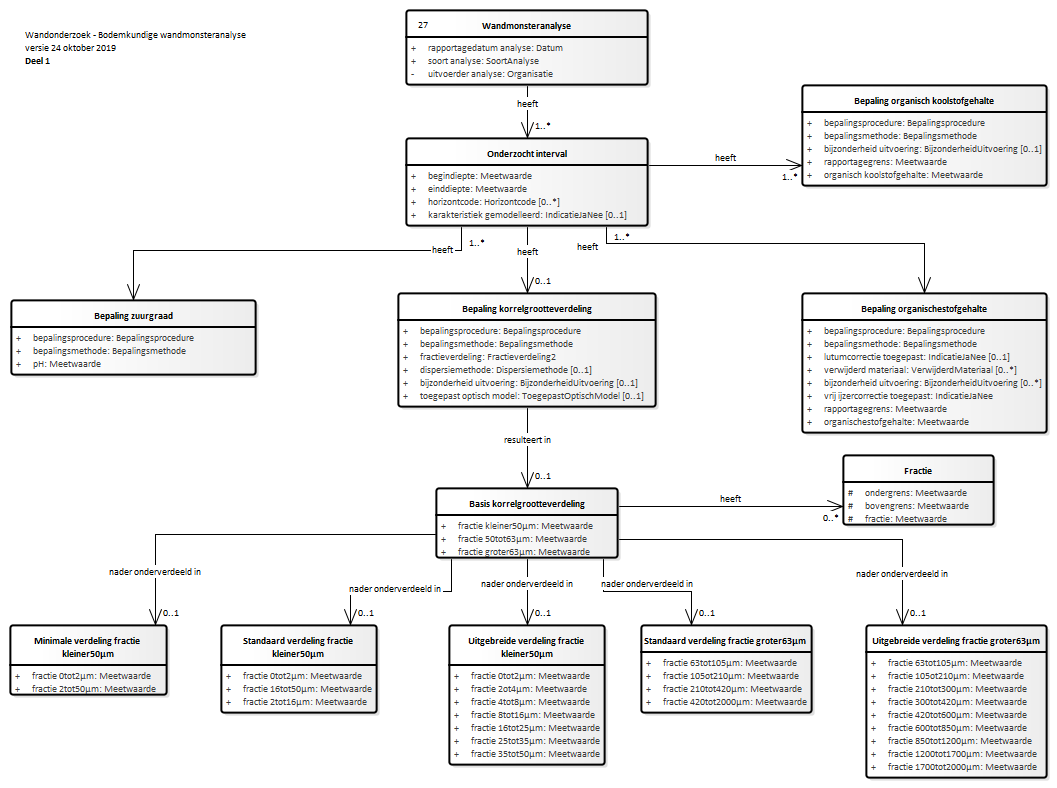
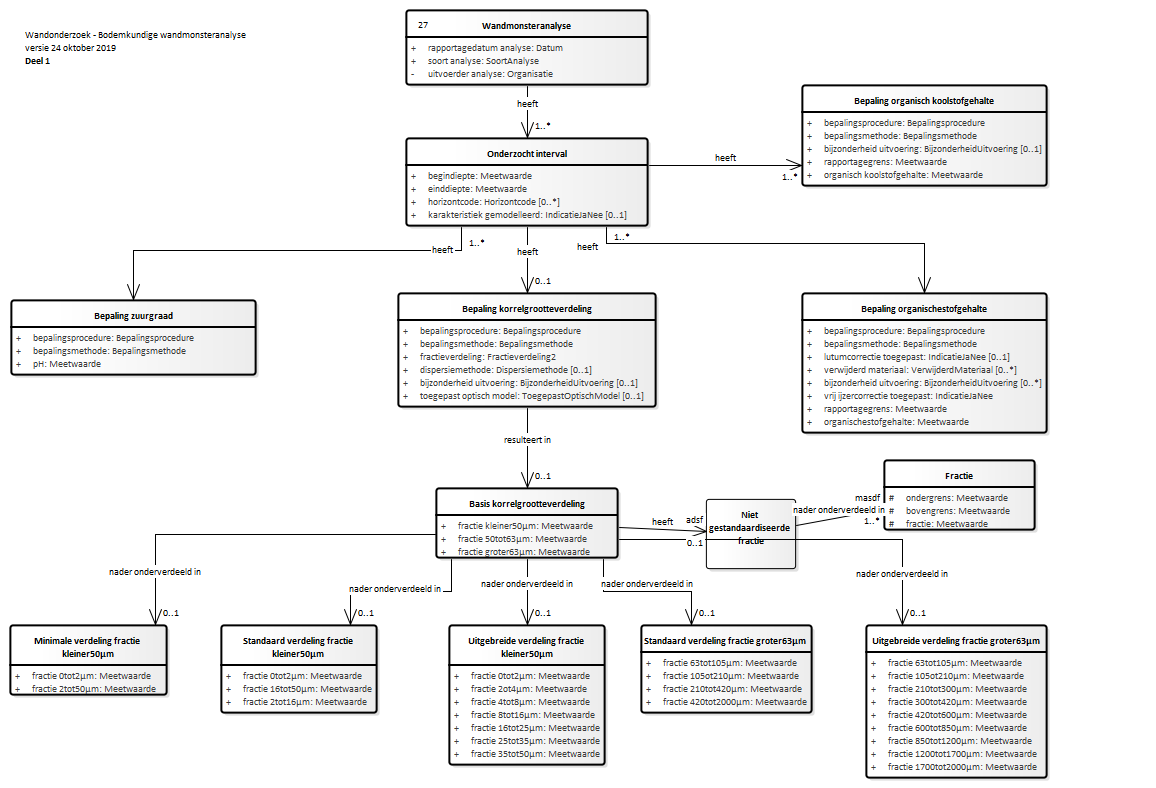
Conceptualmodel-BodemkundigwandonderzoekSFR-0.99versie16oktober2019-3-20191025-20191027-112651

diff --git a/data/SFR-cat.msword.html b/data/SFR-cat.msword.html
@@ -13,7 +13,7 @@
    <body>
       <p>Conceptual model/Bodemkundig wandonderzoek (SFR)/20191025</p>
       <p>Imvertor: 1.55.2</p>
-      <p>Model release: Conceptualmodel-BodemkundigwandonderzoekSFR-0.99versie16oktober2019-3-20191025-20191025-172154</p>
+      <p>Model release: Conceptualmodel-BodemkundigwandonderzoekSFR-0.99versie16oktober2019-3-20191025-20191027-112651</p>
       <hr>
       <section>
          <h1>Artikel 1 Definitie van registratieobject, entiteiten en attributen</h1>
@@ -21,7 +21,7 @@
             <h2>Het domeinmodel</h2>
             <section id="" level="3">
                <div class="imageinfo overview"><img src="Images/EAID_037484F1_4385_43fe_B9A7_1A849CBC1683.png" usemap="#imagemap-EAID_037484F1_4385_43fe_B9A7_1A849CBC1683"><map name="imagemap-EAID_037484F1_4385_43fe_B9A7_1A849CBC1683">
-                     <area shape="rect" coords="843,525,994,455" alt="" href="#graph_EAID_431226DB_231C_42b8_8010_00402BDFC5AB">
+                     <area shape="rect" coords="706,569,796,499" alt="" href="#graph_EAID_85392C61_2694_433a_89B1_7CB7439020AE">
                      <area shape="rect" coords="866,778,1047,625" alt="" href="#graph_EAID_A3EFAD78_CF43_496b_9454_F58C164C823C">
                      <area shape="rect" coords="641,713,812,625" alt="" href="#graph_EAID_D9F10174_6BE1_4726_AD71_3E27E1A28945">
                      <area shape="rect" coords="449,765,605,625" alt="" href="#graph_EAID_E1824E51_FA7A_4696_88DF_D4B613459AE6">
@@ -31,6 +31,7 @@
                      <area shape="rect" coords="398,407,656,293" alt="" href="#graph_EAID_8A3656CD_0F50_48f6_9CF0_0890F48CA39A">
                      <area shape="rect" coords="802,433,1047,293" alt="" href="#graph_EAID_3C291EC5_84C5_4d25_8E28_F9D97115F1F7">
                      <area shape="rect" coords="802,186,1047,85" alt="" href="#graph_EAID_34645118_BDCB_4863_8A47_BF5AE086C2D3">
+                     <area shape="rect" coords="884,530,1035,460" alt="" href="#graph_EAID_431226DB_231C_42b8_8010_00402BDFC5AB">
                      <area shape="rect" coords="11,375,256,300" alt="" href="#graph_EAID_05CC081B_EF1F_4a65_96D4_4D0492C3A9A4">
                      <area shape="rect" coords="406,85,648,10" alt="" href="#graph_EAID_DC3E6339_1B2C_482c_AB74_881D1281A2EC">
                      <area shape="rect" coords="406,226,648,138" alt="" href="#graph_EAID_A420FBE3_89CE_466c_875A_7F10AD21E90D"></map><p><b>Domeinmodel BRO SFR Bodemkundige analyses Basis</b></p>
@@ -12859,14 +12860,14 @@
                         <tr>
                            <th>Relaties met andere entiteiten</th>
                            <td>Basis korrelgrootteverdeling 
-                              heeft 0..* 
-                              <a class="link" href="#global_class_DomeinmodelBROSFR_NietGestandaardiseerdeFractieverdeling">Niet gestandaardiseerde fractieverdeling</a>
-                              <br>Basis korrelgrootteverdeling 
                               nader onderverdeeld in 0..1 
                               <a class="link" href="#global_class_DomeinmodelBROSFR_UitgebreideVerdelingFractieGroter63M">Uitgebreide verdeling fractie groter63µm</a>
                               <br>Basis korrelgrootteverdeling 
                               nader onderverdeeld in 0..1 
                               <a class="link" href="#global_class_DomeinmodelBROSFR_StandaardVerdelingFractieGroter63M">Standaard verdeling fractie groter63µm </a>
+                              <br>Basis korrelgrootteverdeling 
+                              heeft 0..1 
+                              <a class="link" href="#global_class_DomeinmodelBROSFR_NietGestandaardiseerdeFractie">Niet gestandaardiseerde fractie</a>
                               <br>Basis korrelgrootteverdeling 
                               nader onderverdeeld in 0..1 
                               <a class="link" href="#global_class_DomeinmodelBROSFR_UitgebreideVerdelingFractieKleiner50M">Uitgebreide verdeling fractie kleiner50µm</a>
@@ -14145,8 +14146,8 @@
                      </table>
                      
                   </section>
-               </section><a class="anchor" name="graph_EAID_431226DB_231C_42b8_8010_00402BDFC5AB"></a><a class="anchor" name="global_class_DomeinmodelBROSFR_NietGestandaardiseerdeFractieverdeling"></a><section id="global_class_DomeinmodelBROSFR_NietGestandaardiseerdeFractieverdeling" level="4">
-                  <h3>   Niet gestandaardiseerde fractieverdeling</h3>
+               </section><a class="anchor" name="graph_EAID_431226DB_231C_42b8_8010_00402BDFC5AB"></a><a class="anchor" name="global_class_DomeinmodelBROSFR_Fractie"></a><section id="global_class_DomeinmodelBROSFR_Fractie" level="4">
+                  <h3>   Fractie</h3>
                   <div class="imageinfo "><img src="Images/EAID_19AC7496_B31C_408d_A386_F7811F324F31.png" usemap="#imagemap-EAID_19AC7496_B31C_408d_A386_F7811F324F31"><map name="imagemap-EAID_19AC7496_B31C_408d_A386_F7811F324F31">
                         <area shape="rect" coords="10,85,202,10" alt="" href="#graph_EAID_431226DB_231C_42b8_8010_00402BDFC5AB"></map><p><b>IMBRO/A fractie verdeling</b></p>
                   </div>
@@ -14159,14 +14160,22 @@
                            <td>Entiteit</td>
                         </tr>
                         <tr>
+                           <th>Definitie</th>
+                           <td>
+                              
+                              <p xmlns="http://www.w3.org/1999/xhtml" xmlns:html="http://www.w3.org/1999/xhtml" xmlns:imvert="http://www.imvertor.org/schema/system">De fractie beschreven met een ondergrens, een bovengrens en de bepaalde fractie. !</p>
+                              
+                           </td>
+                        </tr>
+                        <tr>
                            <th>Relaties met andere entiteiten</th>
                            <td>
-                              <a class="link" href="#global_class_DomeinmodelBROSFR_BasisKorrelgrootteverdeling">Basis korrelgrootteverdeling</a>
+                              <a class="link" href="#global_class_DomeinmodelBROSFR_NietGestandaardiseerdeFractie">Niet gestandaardiseerde fractie</a>
                               
-                              heeft 0..* Niet gestandaardiseerde fractieverdeling<br></td>
+                              nader onderverdeeld in 1..* Fractie<br></td>
                         </tr>
                      </tbody>
-                  </table><a class="anchor" name="detail_attribute_DomeinmodelBROSFR_NietGestandaardiseerdeFractieverdeling_ondergrens"></a><section id="detail_attribute_DomeinmodelBROSFR_NietGestandaardiseerdeFractieverdeling_ondergrens" level="5">
+                  </table><a class="anchor" name="detail_attribute_DomeinmodelBROSFR_Fractie_ondergrens"></a><section id="detail_attribute_DomeinmodelBROSFR_Fractie_ondergrens" level="5">
                      <h4>  ondergrens</h4>
                      
                      <table width="100%">
@@ -14175,7 +14184,7 @@
                         <tbody>
                            <tr>
                               <th>Type gegeven</th>
-                              <td>Attribuut van Niet gestandaardiseerde fractieverdeling</td>
+                              <td>Attribuut van Fractie</td>
                            </tr>
                            <tr>
                               <th>Definitie</th>
@@ -14216,7 +14225,7 @@
                         </tbody>
                      </table>
                      
-                  </section><a class="anchor" name="detail_attribute_DomeinmodelBROSFR_NietGestandaardiseerdeFractieverdeling_bovengrens"></a><section id="detail_attribute_DomeinmodelBROSFR_NietGestandaardiseerdeFractieverdeling_bovengrens" level="5">
+                  </section><a class="anchor" name="detail_attribute_DomeinmodelBROSFR_Fractie_bovengrens"></a><section id="detail_attribute_DomeinmodelBROSFR_Fractie_bovengrens" level="5">
                      <h4>  bovengrens</h4>
                      
                      <table width="100%">
@@ -14225,7 +14234,15 @@
                         <tbody>
                            <tr>
                               <th>Type gegeven</th>
-                              <td>Attribuut van Niet gestandaardiseerde fractieverdeling</td>
+                              <td>Attribuut van Fractie</td>
+                           </tr>
+                           <tr>
+                              <th>Definitie</th>
+                              <td>
+                                 
+                                 <p xmlns="http://www.w3.org/1999/xhtml" xmlns:html="http://www.w3.org/1999/xhtml" xmlns:imvert="http://www.imvertor.org/schema/system">De maximale diameter van de korrels.</p>
+                                 
+                              </td>
                            </tr>
                            <tr>
                               <th>Juridische status</th>
@@ -14241,16 +14258,32 @@
                            </tr>
                            <tr>
                               <th>&nbsp;&nbsp;Naam</th>
-                              <td>Meetwaarde </td>
+                              <td>Meetwaarde 4.0</td>
                            </tr>
                            <tr>
                               <th>&nbsp;&nbsp;Type</th>
                               <td>Getal</td>
                            </tr>
+                           <tr>
+                              <th>&nbsp;&nbsp;Eenheid</th>
+                              <td>µm (micrometer)</td>
+                           </tr>
+                           <tr>
+                              <th>&nbsp;&nbsp;Waardebereik</th>
+                              <td>0 tot 2000</td>
+                           </tr>
+                           <tr>
+                              <th>Regels</th>
+                              <td>
+                                 
+                                 <p xmlns="http://www.w3.org/1999/xhtml" xmlns:html="http://www.w3.org/1999/xhtml" xmlns:imvert="http://www.imvertor.org/schema/system">De bovengrens is groter dan de ondergrens van de fractie.</p>
+                                 
+                              </td>
+                           </tr>
                         </tbody>
                      </table>
                      
-                  </section><a class="anchor" name="detail_attribute_DomeinmodelBROSFR_NietGestandaardiseerdeFractieverdeling_fractie"></a><section id="detail_attribute_DomeinmodelBROSFR_NietGestandaardiseerdeFractieverdeling_fractie" level="5">
+                  </section><a class="anchor" name="detail_attribute_DomeinmodelBROSFR_Fractie_fractie"></a><section id="detail_attribute_DomeinmodelBROSFR_Fractie_fractie" level="5">
                      <h4>  fractie</h4>
                      
                      <table width="100%">
@@ -14259,7 +14292,15 @@
                         <tbody>
                            <tr>
                               <th>Type gegeven</th>
-                              <td>Attribuut van Niet gestandaardiseerde fractieverdeling</td>
+                              <td>Attribuut van Fractie</td>
+                           </tr>
+                           <tr>
+                              <th>Definitie</th>
+                              <td>
+                                 
+                                 <p xmlns="http://www.w3.org/1999/xhtml" xmlns:html="http://www.w3.org/1999/xhtml" xmlns:imvert="http://www.imvertor.org/schema/system">Het aandeel van de korrels in de massa van het materiaal.</p>
+                                 
+                              </td>
                            </tr>
                            <tr>
                               <th>Juridische status</th>
@@ -14275,11 +14316,30 @@
                            </tr>
                            <tr>
                               <th>&nbsp;&nbsp;Naam</th>
-                              <td>Meetwaarde </td>
+                              <td>Meetwaarde 3.1</td>
                            </tr>
                            <tr>
                               <th>&nbsp;&nbsp;Type</th>
                               <td>Getal</td>
+                           </tr>
+                           <tr>
+                              <th>&nbsp;&nbsp;Eenheid</th>
+                              <td>% (procent)</td>
+                           </tr>
+                           <tr>
+                              <th>&nbsp;&nbsp;Waardebereik</th>
+                              <td>0 tot 100</td>
+                           </tr>
+                           <tr>
+                              <th>Toelichting</th>
+                              <td>
+                                 
+                                 <p xmlns="http://www.w3.org/1999/xhtml" xmlns:html="http://www.w3.org/1999/xhtml" xmlns:imvert="http://www.imvertor.org/schema/system">In de bodemkunde is de totale massa van het materiaal altijd van het materiaal met
+                                    de korrelgrootte tot 2 mm. Standaard wordt al het materiaal groter dan 2 milimeter
+                                    verwijderd. 
+                                 </p>
+                                 
+                              </td>
                            </tr>
                         </tbody>
                      </table>
@@ -21684,6 +21744,54 @@
                               <a class="link" href="#global_class_DomeinmodelBROSFR_Wandonderzoek">Wandonderzoek</a>
                               
                               heeft 0..* Wandfotografie (BUITEN SCOPE)<br></td>
+                        </tr>
+                     </tbody>
+                  </table>
+               </section><a class="anchor" name="graph_EAID_85392C61_2694_433a_89B1_7CB7439020AE"></a><a class="anchor" name="global_class_DomeinmodelBROSFR_NietGestandaardiseerdeFractie"></a><section id="global_class_DomeinmodelBROSFR_NietGestandaardiseerdeFractie" level="4">
+                  <h3>   Niet gestandaardiseerde fractie</h3>
+                  <table width="100%">
+                     <colgroup width="30%"></colgroup>
+                     <colgroup width="70%"></colgroup>
+                     <tbody>
+                        <tr>
+                           <th>Type gegeven</th>
+                           <td>Entiteit</td>
+                        </tr>
+                        <tr>
+                           <th>Definitie</th>
+                           <td>
+                              
+                              <p xmlns="http://www.w3.org/1999/xhtml" xmlns:html="http://www.w3.org/1999/xhtml" xmlns:imvert="http://www.imvertor.org/schema/system">De omschrijving van een niet gestandaardiseerde fractieverdeling. </p>
+                              
+                           </td>
+                        </tr>
+                        <tr>
+                           <th>Regels</th>
+                           <td>
+                              
+                              <p xmlns="http://www.w3.org/1999/xhtml" xmlns:html="http://www.w3.org/1999/xhtml" xmlns:imvert="http://www.imvertor.org/schema/system">De entiteit moet aanwezig zijn onder IMBRO/A wanneer de waarde van het attribuut <em>fractieverdeling</em> van de entiteit <em>Bepaling korrelgrootteverdeling</em> gelijk is aan <em>nietGestandaardiseerd</em>.
+                                 De entiteit moet ontbreken in alle andere gevallen.
+                              </p>
+                              
+                           </td>
+                        </tr>
+                        <tr>
+                           <th>Toelichting</th>
+                           <td>
+                              
+                              <p xmlns="http://www.w3.org/1999/xhtml" xmlns:html="http://www.w3.org/1999/xhtml" xmlns:imvert="http://www.imvertor.org/schema/system">!</p>
+                              
+                           </td>
+                        </tr>
+                        <tr>
+                           <th>Relaties met andere entiteiten</th>
+                           <td>Niet gestandaardiseerde fractie 
+                              nader onderverdeeld in 1..* 
+                              <a class="link" href="#global_class_DomeinmodelBROSFR_Fractie">Fractie</a>
+                              <br>
+                              <a class="link" href="#global_class_DomeinmodelBROSFR_BasisKorrelgrootteverdeling">Basis korrelgrootteverdeling</a>
+                              
+                              heeft 0..1 Niet gestandaardiseerde fractie<br></td>
                         </tr>
                      </tbody>
                   </table>
